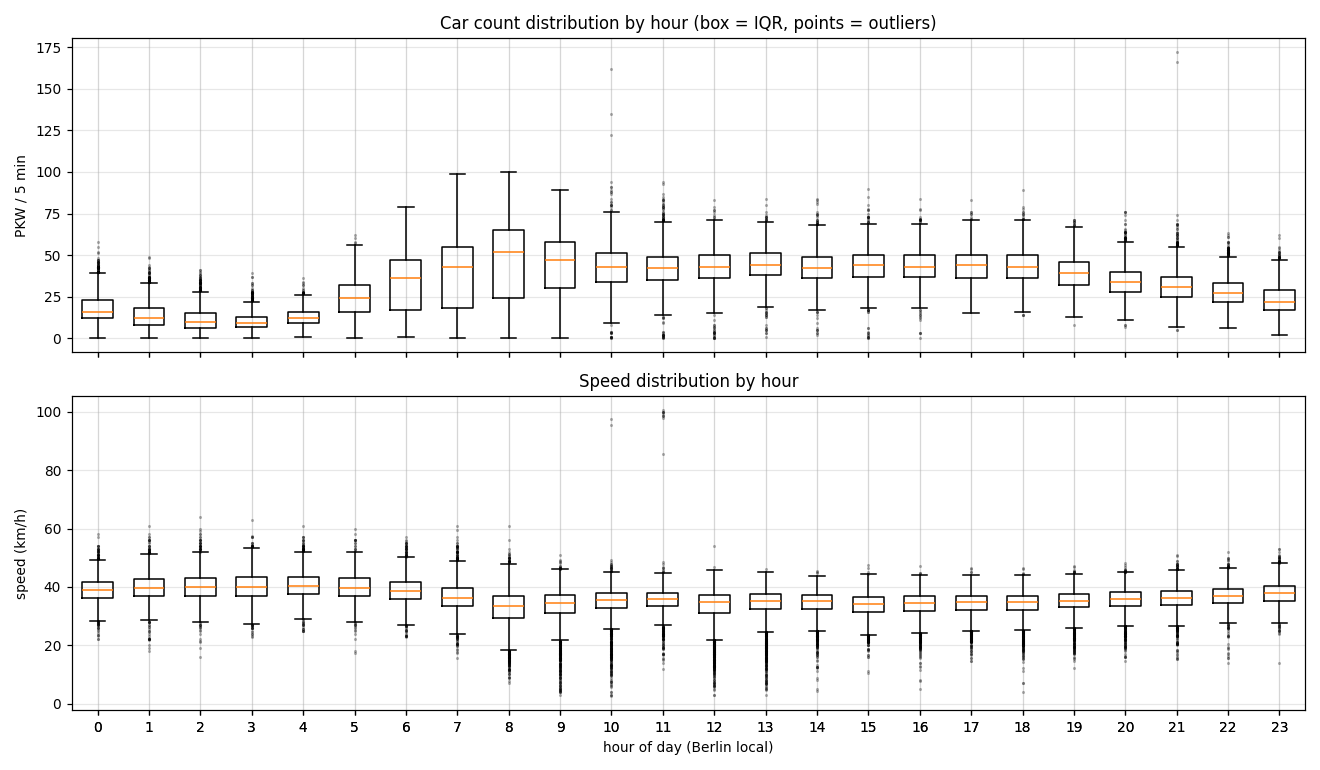
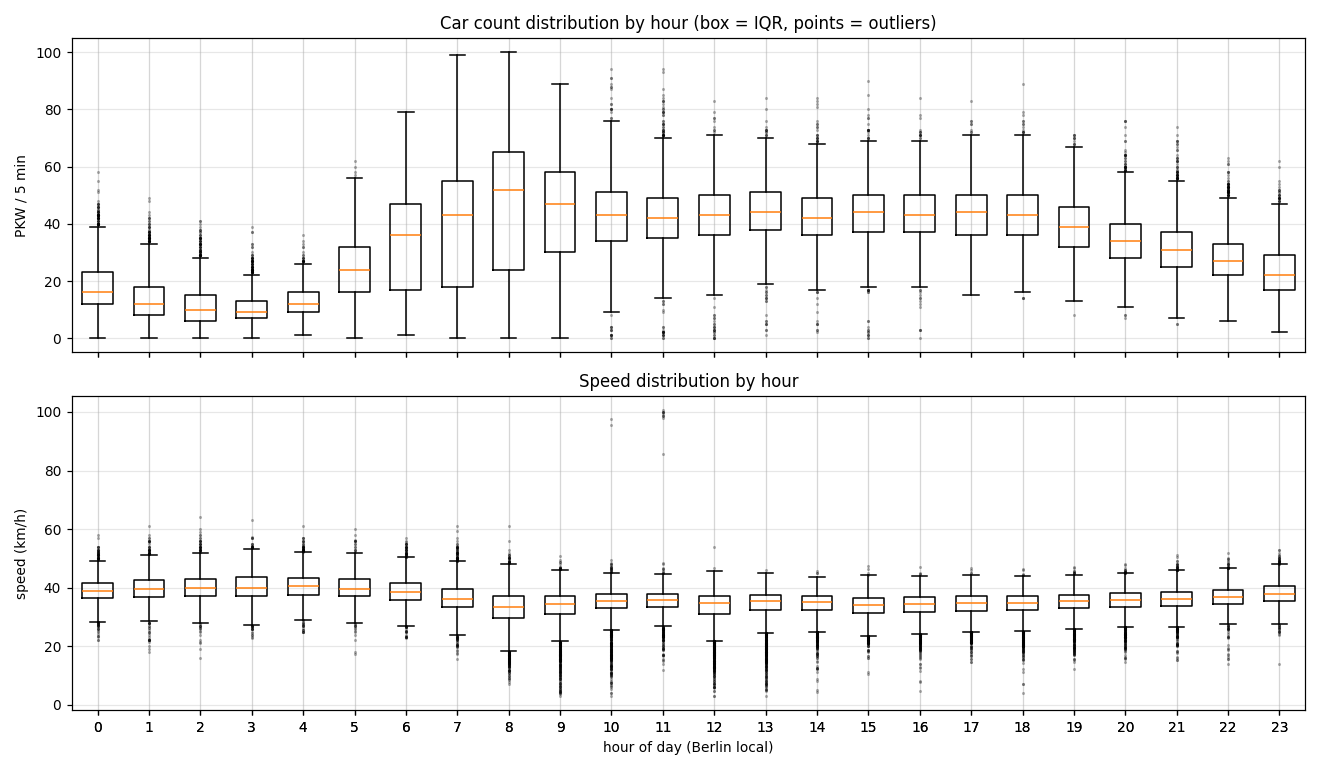
te180-deepdive: scrub count-spike artefacts; add bands-free trajectory figure (15)
- load(): drop physically implausible count spikes (>110 PKW co-occurring with a
  speed collapse to ~3-17 km/h) to missing — 5 slots, count max now 100 not 172.
  Documented as the year's only value-validity fix.
- new figure 15: companion to 14 with bands + median removed, ALL Fri/Sat days
  kept, coloured by month — the raw trajectory set.
- README: artefact-scrub note, updated grid/max stats, fig-15 section, softened
  the "validity" claim, reproduce range 01-15.

diff --git a/berlin-traffic-groundwork/te180-deepdive/analyze.py b/berlin-traffic-groundwork/te180-deepdive/analyze.py
@@ -40,6 +40,15 @@ def load():
     full = pd.date_range(df.index.min(), df.index.max(), freq="5min", tz="UTC")
     df = df.reindex(full)
     df.index.name = "ts"
+    # --- artefact scrub: a handful of 5-min slots report an implausible count spike
+    # (>110 PKW, ~5x the local level) while speed simultaneously collapses to a crawl
+    # (~3-17 km/h). High flow at crawl speed violates the speed-flow relation and the
+    # excess is not conserved against neighbouring slots -> sensor miscount, not
+    # traffic. Drop those readings to missing so no figure or statistic uses them.
+    COUNT_CEILING = 110          # clean body tops out ~100 (p99.99 = 97); next jump is 122
+    art = df["count"] > COUNT_CEILING
+    df.loc[art, ["count", "speed_kmh"]] = np.nan
+    df.attrs["artefacts_scrubbed"] = int(art.sum())
     df["present"] = df["count"].notna()
     # derive Berlin-local fields for interpretable time-of-day / weekday patterns
     local = df.index.tz_convert("Europe/Berlin")
@@ -282,6 +291,31 @@ def fig_weekend_day_bands(df):
     plt.close(fig)
     return counts
 
+def fig_weekend_day_spaghetti(df):
+    """Companion to fig 14 with the bands and median stripped out: every Friday/
+    Saturday full-day trajectory, all kept, coloured by month — the raw curve set."""
+    tod = np.arange(SLOTS) / 12.0
+    cmap = _month_cmap(); mnorm = Normalize(1, 12)
+    fig, ax = plt.subplots(1, 2, figsize=(13, 5.2), sharey=True)
+    for a, (dow, name) in zip(ax, [(4, "Friday"), (5, "Saturday")]):
+        dates, M = _day_matrix(df, dow)
+        months = pd.DatetimeIndex(dates).month.values
+        for i in range(len(M)):                         # ALL trajectories, none dropped
+            a.plot(tod, M[i], color=cmap(mnorm(months[i])), lw=0.6, alpha=0.55, zorder=1)
+        a.set_title(f"{name} — all {len(M)} full days"); a.set_xlim(0, 24)
+        a.set_xticks(range(0, 25, 3)); a.set_xlabel("hour of day (Berlin local)")
+    ax[0].set_ylabel("PKW / 5 min")
+    sm = cm.ScalarMappable(norm=mnorm, cmap=cmap); sm.set_array([])
+    cb = fig.colorbar(sm, ax=ax, fraction=0.025, pad=0.01)
+    cb.set_ticks(range(1, 13))
+    cb.set_ticklabels(["Jan", "Feb", "Mar", "Apr", "May", "Jun",
+                       "Jul", "Aug", "Sep", "Oct", "Nov", "Dec"])
+    cb.set_label("month of the day")
+    fig.suptitle(f"{TITLE} — Friday vs Saturday full-day car-count trajectories "
+                 f"(all days, coloured by month)", y=1.01)
+    fig.savefig(f"{FIG}/15_weekend_day_trajectories.png", bbox_inches="tight")
+    plt.close(fig)
+
 # ------------------------------------------------------------------ statistics
 def fig_distributions(df):
     d = df[df.present]
@@ -408,7 +442,9 @@ def main():
     dd = _day_fields(df)
     fig_day_pattern_by_month(dd); fig_day_pattern_by_week(dd); fig_day_pattern_by_dow(dd)
     wk = fig_weekend_day_bands(df)
-    print("Fri/Sat full days kept (≥95% coverage):", wk)
+    fig_weekend_day_spaghetti(df)
+    print("artefact count-spikes scrubbed:", df.attrs.get("artefacts_scrubbed"))
+    print("Fri/Sat band membership:", wk)
     fig_distributions(df); fig_boxplots(df); fig_fundamental(df)
     rep, out_rows = analyze_breaks(df)
     fig_daily_coverage(df, out_rows)

diff --git a/berlin-traffic-groundwork/te180-deepdive/README.md b/berlin-traffic-groundwork/te180-deepdive/README.md
@@ -51,8 +51,8 @@ Two things stand out against TC073:
 | Location | Torstraße, Tucholskystr.→Borsigstr., Haus 199, **Richtung West** (`mq_id15` 100201010015336) |
 | Datastreams | count `Anzahl PKW 5 Minuten -  Messquerschnitt` (id **8725**); speed `Geschwindigkeit PKW 5 Minuten -  Messquerschnitt` (id **8731**) |
 | Stream life | 2023-02-22 → ~2025-04-13, but **dense only in year 1**; we pull **2023-02-22 12:00 → 2024-01-13 01:35 UTC** |
-| Grid | 93,476 five-minute slots · **82,200 present (87.9 %)** · 11,276 missing · 46 present-but-zero (all scattered, no ≥30-min run) |
-| Count (PKW/5 min) | median 34 · mean 33.4 · p95 61 · max 172 |
+| Grid | 93,476 five-minute slots · **82,195 present (87.9 %)** · 11,281 missing · 46 present-but-zero (all scattered, no ≥30-min run) |
+| Count (PKW/5 min) | median 34 · mean 33.4 · p95 61 · max 100 (after artefact scrub; see below) |
 | Speed (km/h) | median 36.4 · mean 36.3 · p05 27.0 · p95 45.0 |
 
 All times in the data are **UTC**; diurnal/weekday analysis is done in **Europe/Berlin
@@ -143,11 +143,17 @@ commute spike**, a slow build to a broad afternoon/evening plateau, and a fat la
 band. **Friday** carries the heavier, longer-tailed evening; **Saturday** is gentler
 and earlier-tapering. The 90 %/68 % gap is widest in the afternoon/evening (day-to-day
 variance peaks when the street is busy) and pinches tight in the **04:00–05:00
-trough**, where every weekend looks alike. Note that depth is a *whole-curve* measure:
-a day that is typical all day bar one 5-min spike stays "deep" and is kept, so the
-90 % envelope can still bulge to contain a brief excursion (e.g. the ~21:00 Friday
-peak). The month colour shows summer (yellow) days running a touch higher through the
-long evenings than winter (blue) ones.
+trough**, where every weekend looks alike. The month colour shows summer (yellow)
+days running a touch higher through the long evenings than winter (blue) ones.
+
+The same picture with the **bands and median stripped out and every day kept** — the
+raw trajectory set, coloured by month — is below. It makes the full day-to-day spread
+visible (the band figure is just this with a robust summary laid over it):
+
+![weekend day trajectories](figures/15_weekend_day_trajectories.png)
+*All 33 Fri / 35 Sat full days, no bands, no median, one line per real day, coloured
+by month. The seasonal fan-out is clearest in the evening hours; the overnight troughs
+and the absence of an 08:00 commute spike are common to every day regardless of month.*
 
 ## Statistical view
 
@@ -193,15 +199,26 @@ sit, as expected, in the deep overnight hours.
 A useful cross-check, exactly as in the TC073 study: across the whole sample
 **`speed > 0` while `count = 0` never happens (0 cases)** — the count and speed
 streams are mutually consistent. Combined with the absence of any count-doubling
-step, **TE180's year is cleaner than TC073's**: the only data-quality issue is
-*availability* (outages + the post-Jan-2024 death), not *validity*.
+step, **TE180's year is cleaner than TC073's**: aside from a tiny artefact scrub
+(next paragraph), the data-quality issue is *availability* (outages + the
+post-Jan-2024 death), not *validity*.
+
+**Count-spike artefacts (scrubbed).** Five isolated 5-min slots report an
+implausible count spike (>110 PKW, ~5× the local level) while speed *simultaneously*
+collapses to a crawl (~3–17 km/h) — e.g. `2023-07-28 21:05–21:10` (172, 166 PKW at
+~16 km/h) and `2023-09-24 08:10–08:35` (122–162 PKW at 2.6–9 km/h). High flow at
+crawl speed violates the speed–flow relation, and the ~300-car excess is not
+conserved against neighbouring slots, so these are **sensor miscounts, not traffic**.
+`analyze.py` drops any count `> 110` (the clean body tops out ~100; p99.99 = 97) to
+missing before every figure/statistic, which is why the count max above is **100, not
+172**. This is the *only* value-validity fix the year needs.
 
 ## Reproduce
 
 ```bash
 cd berlin-traffic-groundwork/te180-deepdive
 python3 fetch.py        # idempotent + gentle: caches data/te180_pkw_5min.csv (skips if present)
-python3 analyze.py      # deterministic: regenerates figures/01-14 + data/{outages,summary}.json
+python3 analyze.py      # deterministic: regenerates figures/01-15 + data/{outages,summary}.json
 python3 map.py          # static location map (figures/00_location_map.png; one tile fetch)
 ```
 
